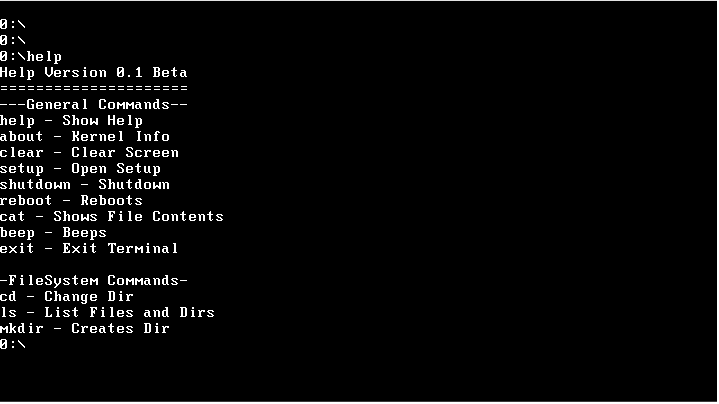
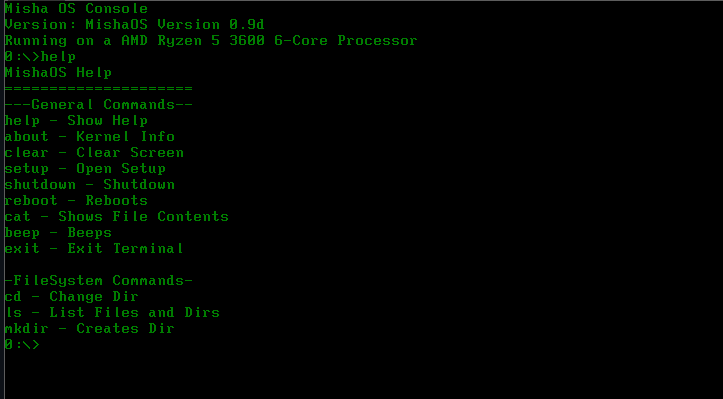
Cleanup & Screenshot update

Changed region(s): [[0.0, 0.0, 0.5814, 0.9023], [0.0, 0.0, 1.0, 1.0]]

diff --git a/Misha-OS/Commands/CommandParaser.cs b/Misha-OS/Commands/CommandParaser.cs
@@ -20,7 +20,7 @@ namespace MishaOS.TextUI.Commands
         {
             if (cmd.ToLower().StartsWith("help"))
             {
-                new Help.Help().Execute(g, cmd);
+                new Help().Execute(g, cmd);
             }
             else if (cmd.ToLower().StartsWith("clear"))
             {
@@ -32,7 +32,11 @@ namespace MishaOS.TextUI.Commands
             }
             else if (cmd.ToLower().StartsWith("ls"))
             {
-                new ls().Execute(g, cmd);
+                new LsCommand().Execute(g, cmd);
+            }
+            else if (cmd.ToLower().StartsWith("dir"))
+            {
+                new LsCommand().Execute(g, cmd);
             }
             else if (cmd.ToLower().StartsWith("crash"))
             {
@@ -111,14 +115,16 @@ namespace MishaOS.TextUI.Commands
                     {
                         if (IsGUI == true)
                         {
-                            if (g.term is Window)
+                            if (g.term is Window window)
                             {
-                                DesktopManager.CloseWindow((Window)g.term);
+                                DesktopManager.CloseWindow(window);
                             }
                             IsGUI = false;
                             //Switch over to text terminal.
-                            g = new TextTerm();
-                            g.term = new TextTerm();
+                            g = new TextTerm
+                            {
+                                term = new TextTerm()
+                            };
                             Display.Disable();
                             g.WriteLine("Now in text mode!");
                             g.Write(g.CurrentDIR);
@@ -172,9 +178,9 @@ namespace MishaOS.TextUI.Commands
             {
                 if (IsGUI)
                 {
-                    if (g.term is Window)
+                    if (g.term is Window window)
                     {
-                        DesktopManager.CloseWindow((Window)g.term);
+                        DesktopManager.CloseWindow(window);
                     }
                 }
                 else
@@ -190,7 +196,7 @@ namespace MishaOS.TextUI.Commands
                 }
                 else
                 {
-                    CommandParaser.IsGUI = true;
+                    IsGUI = true;
 
                     Display.Init();
                     UiMouse.Init();

diff --git a/Misha-OS/Gui/Apps/SetupWindow.cs b/Misha-OS/Gui/Apps/SetupWindow.cs
@@ -107,25 +107,31 @@ namespace MishaOS.Gui.Windows
                         label = Kernel.FS.GetFileSystemLabel(i.ToString());
                     }
                     catch { }
-                    Control driveInfo = new Control();
-                    driveInfo.Location = new Point(hardDisksPanel.Location.X, DrivesY);
+                    Control driveInfo = new Control
+                    {
+                        Location = new Point(hardDisksPanel.Location.X, DrivesY)
+                    };
 
                     //Drive name/index label
-                    Label driveName = new Label();
-                    driveName.Text = $"Drive {i}: " + label;
-                    driveName.ForeColor = Color.White;
-                    driveName.BackgroundColor = Color.SteelBlue;
-                    driveName.Location = new Point(hardDisksPanel.Location.X, DrivesY);
+                    Label driveName = new Label
+                    {
+                        Text = $"Drive {i}: " + label,
+                        ForeColor = Color.White,
+                        BackgroundColor = Color.SteelBlue,
+                        Location = new Point(hardDisksPanel.Location.X, DrivesY)
+                    };
 
                     driveInfo.Controls.Add(driveName);
 
                     //Select button
-                    Button select = new Button();
-                    select.Text = "Select";
-                    select.BackgroundColor = Color.WhiteSmoke;
-                    select.Size = new Size(100, 20);
-                    select.Location = new Point(Display.ScreenWidth - 105, DrivesY);
-                    select.Tag = drive;
+                    Button select = new Button
+                    {
+                        Text = "Select",
+                        BackgroundColor = Color.WhiteSmoke,
+                        Size = new Size(100, 20),
+                        Location = new Point(Display.ScreenWidth - 105, DrivesY),
+                        Tag = drive
+                    };
                     select.OnClick += delegate (object s, EventArgs e)
                     {
                         SelectedDriveNum = Convert.ToInt32((select.Tag as DirectoryEntry).mName[0].ToString());

diff --git a/Misha-OS/Gui/Apps/Settings.cs b/Misha-OS/Gui/Apps/Settings.cs
@@ -93,10 +93,12 @@ namespace MishaOS.Gui.Apps
         Button DisplaySize = new Button();
         public void SettingsTab()
         {
-            DisplaySize = new Button();
-            DisplaySize.Location = new System.Drawing.Point(5, 25);
-            DisplaySize.Size = new Size(220, 15);
-            DisplaySize.Text = "Change Display Size";
+            DisplaySize = new Button
+            {
+                Location = new System.Drawing.Point(5, 25),
+                Size = new Size(220, 15),
+                Text = "Change Display Size"
+            };
             DisplaySize.OnClick += DisplaySize_OnClick;
             this.Controls.Add(DisplaySize);
         }
@@ -105,20 +107,24 @@ namespace MishaOS.Gui.Apps
         Button DisplaySizeOptionB = new Button();
         private void DisplaySize_OnClick(object sender, EventArgs e)
         {
-            DisplaySizeOptionA = new Button();
-            DisplaySizeOptionA.Text = "320x200";
-            DisplaySizeOptionA.Location = new System.Drawing.Point(5, 45);
-            DisplaySizeOptionA.Size = new Size(60, 15);
+            DisplaySizeOptionA = new Button
+            {
+                Text = "320x200",
+                Location = new System.Drawing.Point(5, 45),
+                Size = new Size(60, 15)
+            };
             DisplaySizeOptionA.OnClick += A_OnClick;
             DisplaySizeOptionA.Visible = true;
             this.Controls.Add(DisplaySizeOptionA);
 
             if (BootManager.HasSVGA)
             {
-                DisplaySizeOptionB = new Button();
-                DisplaySizeOptionB.Text = "640x480";
-                DisplaySizeOptionB.Location = new System.Drawing.Point(5, 65);
-                DisplaySizeOptionB.Size = new Size(60, 15);
+                DisplaySizeOptionB = new Button
+                {
+                    Text = "640x480",
+                    Location = new System.Drawing.Point(5, 65),
+                    Size = new Size(60, 15)
+                };
                 DisplaySizeOptionB.OnClick += B_OnClick;
                 DisplaySizeOptionB.Visible = true;
                 this.Controls.Add(DisplaySizeOptionB);

diff --git a/Misha-OS/Gui/Apps/Taskbar.cs b/Misha-OS/Gui/Apps/Taskbar.cs
@@ -11,35 +11,32 @@ namespace MishaOS.Gui.Windows
     /// </summary>
     public class Taskbar : Window
     {
+        private StartMenu StartMenu;
         public Taskbar()
         {
             this.Text = "Taskbar UI";
             BackgroundColor = Color.ForestGreen;
 
             this.Size = new Size(Display.ScreenWidth, 15);
-            this.Location = new System.Drawing.Point(0, Display.ScreenHeight - 15);
+            this.Location = new Point(0, Display.ScreenHeight - 15);
             this.ShouldDrawTitleBar = false;
 
 
-            Button start = new Button();
-            start.Location = new System.Drawing.Point(0, 0);
-            start.Size = new Size(30, 15);
-            start.Text = "Start";
-            start.BackgroundColor = Color.Green;
+            Button start = new Button
+            {
+                Location = new Point(0, 0),
+                Size = new Size(30, 15),
+                Text = "Start",
+                BackgroundColor = Color.Green
+            };
             start.OnClick += Start_OnClick;
             this.Controls.Add(start);
         }
-        StartMenu StartMenu;
         private void Start_OnClick(object sender, EventArgs e)
         {
             StartMenu = new StartMenu();
 
             DesktopManager.OpenWindow(StartMenu);
         }
-    }
-    public class AppReference
-    {
-        public Cosmos.System.Graphics.Point loc;
-        public Window window;
     }
 }

diff --git a/Misha-OS/Drivers/BootManager.cs b/Misha-OS/Drivers/BootManager.cs
@@ -1,4 +1,5 @@
-using Cosmos.HAL;
+using Cosmos.Core;
+using Cosmos.HAL;
 using Cosmos.System.FileSystem;
 using Cosmos.System.FileSystem.VFS;
 using Cosmos.System.Graphics;
@@ -158,17 +159,20 @@ namespace MishaOS.Drivers
             {
                 VGADriverII.SetMode(VGAMode.Text80x25);
                 Console.Clear();
-                Console.ForegroundColor = ConsoleColor.White;
+                Console.ForegroundColor = ConsoleColor.DarkGreen;
                 Console.BackgroundColor = ConsoleColor.Black;
                 CommandParaser.IsGUI = false;
 
                 var term = new TextTerm();
-                term.Write(term.CurrentDIR);
+                term.WriteLine("Misha OS Console");
+                term.WriteLine("Version: " + Kernel.KernelVersion);
+                term.WriteLine("Running on a " + CPU.GetCPUBrandString());
+                term.Write(term.CurrentDIR + ">");
                 while (!CommandParaser.IsGUI)
                 {
                     var input2 = term.ReadLine();
                     CommandParaser.ProcessCommand(term, input2);
-                    term.Write(term.CurrentDIR);
+                    term.Write(term.CurrentDIR + ">");
                 }
             }
             else

diff --git a/Misha-OS/Commands/All/FS/edit.cs b/Misha-OS/Commands/All/FS/edit.cs
@@ -11,8 +11,8 @@ namespace MishaOS.TextUI.Commands.All.General
     {
         public void Execute(IGuiConsole g, string cmdline)
         {
-            Display.Disable();
-           // VGAScreen.SetTextMode(Cosmos.HAL.VGADriver.TextSize.Size80x50);
+            if (CommandParaser.IsGUI)
+                Display.Disable();
             MIV.MIV.file = cmdline.Replace("edit","");
             MIV.MIV.StartMIV(g);
         }
@@ -293,12 +293,11 @@ namespace MIV
         {
             for (int i = 0; i < time; i++) ;
         }
-        static IGuiConsole gg;
         public static void StartMIV(IGuiConsole g)
         {
-            gg = g;
             Console.WriteLine("Enter file's filename to open:");
             Console.WriteLine("If the specified file does not exist, it will be created.");
+
             file = Console.ReadLine();
             try
             {
@@ -318,7 +317,7 @@ namespace MIV
                 Console.WriteLine(ex.Message);
             }
 
-            String text = String.Empty;
+            string text;
             Console.WriteLine("Do you want to open " + file + " content? (Yes/No)");
             if (Console.ReadLine().ToLower() == "yes" || Console.ReadLine().ToLower() == "y")
             {

diff --git a/Misha-OS/Gui/Apps/StartMenu.cs b/Misha-OS/Gui/Apps/StartMenu.cs
@@ -45,11 +45,13 @@ namespace MishaOS.Gui.Apps
         {
             Cosmos.System.Graphics.Point loc = new Cosmos.System.Graphics.Point(this.Location.X, AppY);
 
-            Button btn = new Button();
-            btn.Location = new System.Drawing.Point(loc.X, loc.Y + 5);
-            btn.Size = new Size(this.Size.Width, 10);
-            btn.ForeColor = Color.Black;
-            btn.Text = window.Text;
+            Button btn = new Button
+            {
+                Location = new System.Drawing.Point(loc.X, loc.Y + 5),
+                Size = new Size(this.Size.Width, 10),
+                ForeColor = Color.Black,
+                Text = window.Text
+            };
             btn.OnClick += delegate (object s, EventArgs e)
             {
                 DesktopManager.OpenWindow(window);

diff --git a/Misha-OS/Gui/Windows/Window.cs b/Misha-OS/Gui/Windows/Window.cs
@@ -15,7 +15,7 @@ namespace MishaOS.Gui.Windows
         private bool _ShouldDrawCloseButton = true;
         private bool _ShouldDrawTitleBar = true;
         private bool _IsOpen = false;
-        private System.Drawing.Point loc = new System.Drawing.Point(0, 0);
+        private Point loc = new Point(0, 0);
         private Point OldMouseLoc;
         private int CloseWidth = 10;
         private int CloseHeight = TitlebarHeight;
@@ -157,9 +157,7 @@ namespace MishaOS.Gui.Windows
                 }
             }
             //Call custom draw function
-#pragma warning disable CS0618
             Draw();
-#pragma warning restore CS0618
         }
         /// <summary>
         /// Custom draw method. Do not call dirrectly.

diff --git a/Misha-OS/Gui/Apps/Terminal.cs b/Misha-OS/Gui/Apps/Terminal.cs
@@ -122,10 +122,12 @@ namespace MishaOS
             //Now draw the text
             if (doDraw)
             {
-                Label lbl = new Label();
-                lbl.Location = new System.Drawing.Point(StringindexX, StringindexY);
-                lbl.Text = thestring;
-                lbl.ForeColor = forecolor.Color;
+                Label lbl = new Label
+                {
+                    Location = new System.Drawing.Point(StringindexX, StringindexY),
+                    Text = thestring,
+                    ForeColor = forecolor.Color
+                };
                 this.Controls.Add(lbl);
             }
             if (newline)

diff --git a/Misha-OS/Commands/All/TextTerm.cs b/Misha-OS/Commands/All/TextTerm.cs
@@ -7,7 +7,7 @@ namespace MishaOS.Commands.All
 {
     class TextTerm : IGuiConsole
     {
-        public object term { get { return this; } set { TextTerm i = this; i = (TextTerm)value; } }
+        public object term { get { return this; } set {  } }
         public string CurrentDIR { get; set; } = @"0:\";
         public int MaxCols { get { return Console.BufferHeight; } set { } }
         public string Title { get; set; }

diff --git a/Misha-OS/Commands/TextWindows.cs b/Misha-OS/Commands/TextWindows.cs
@@ -13,7 +13,6 @@ namespace MishaOS.Commands
             var ogc = System.Console.BackgroundColor;
             System.Console.ForegroundColor = ConsoleColor.White;
             System.Console.BackgroundColor = ConsoleColor.Blue;
-            var length = text.Length + 2;
             var line0 = string.Empty;
             var line1 = string.Empty;
             var line2 = string.Empty;

diff --git a/Misha-OS/Commands/All/FS/LsCommand.cs b/Misha-OS/Commands/All/FS/LsCommand.cs
@@ -7,7 +7,7 @@ using System.Text;
 
 namespace MishaOS.TextUI.Commands.All.General
 {
-    public class ls : ICommand
+    public class LsCommand : ICommand
     {
         public void Execute(IGuiConsole g, string cmdline)
         {
